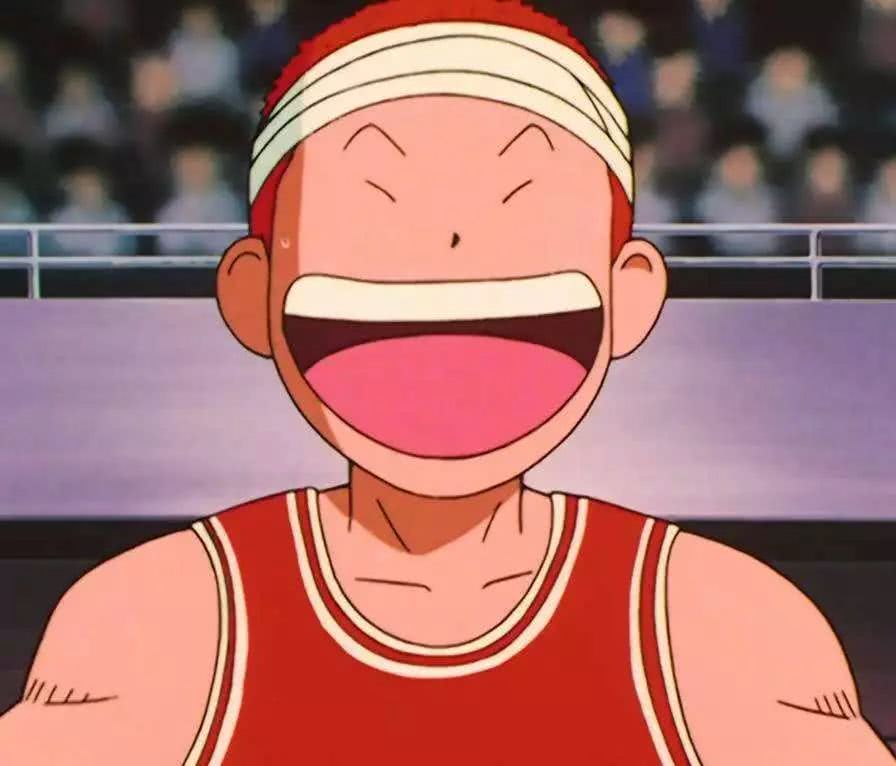
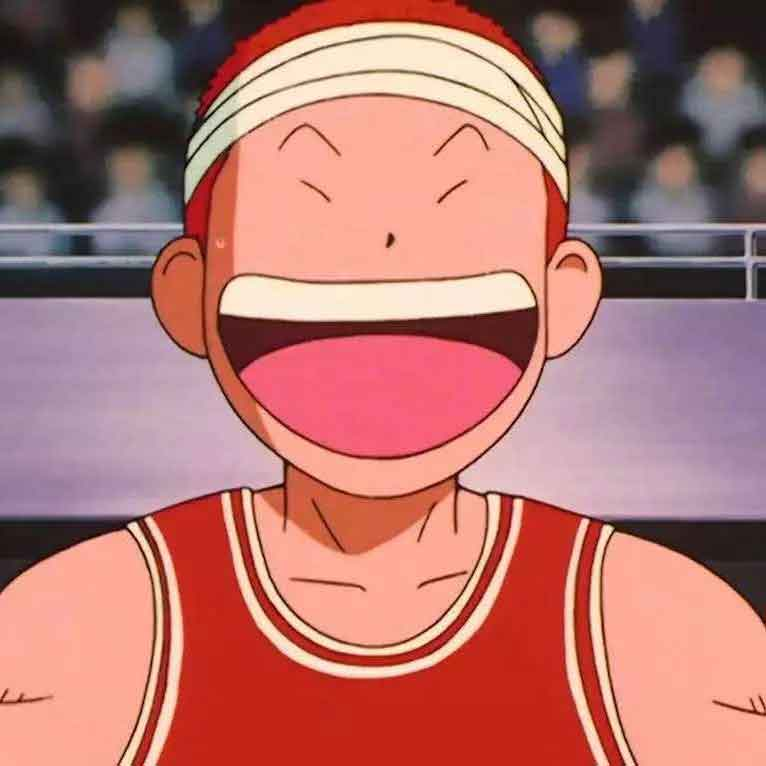
Site updated: 2019-08-20 15:24:23

diff --git a/css/main.css b/css/main.css
@@ -1742,6 +1742,15 @@ pre .javascript .function {
   max-width: 120px;
   height: auto;
   border: 1px solid #eee;
+  border-radius: 60%;
+  transition: 2.5s all;
+}
+.site-author-image:hover {
+  -webkit-transform: rotate(360deg);
+  -moz-transform: rotate(360deg);
+  -ms-transform: rotate(360deg);
+  -o-transform: rotate(360deg);
+  transform: rotate(360deg);
 }
 .site-author-name {
   margin: 0;
@@ -1823,7 +1832,7 @@ pre .javascript .function {
   width: 4px;
   height: 4px;
   border-radius: 50%;
-  background: #08ff11;
+  background: #afb90a;
 }
 .links-of-blogroll {
   font-size: 13px;
